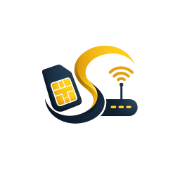
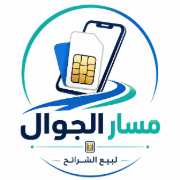
finish navbar

Changed region(s): [[0.1111, 0.0, 0.9167, 1.0], [0.2222, 0.8611, 0.25, 0.8889]]

diff --git a/app/layout.tsx b/app/layout.tsx
@@ -32,9 +32,9 @@ async function getCompany() {
 export async function generateMetadata(): Promise<Metadata> {
   const c = await getCompany();
 
-  const siteName = c.nameAr || "سهلناها التقنية (اتصالات)";
-  const titleDefault = `${siteName} | أفضل متجر شرائح اتصال وباقات إنترنت في السعودية`;
-  const description = c.details || "سهلناها التقنية (اتصالات) - تسوق أفضل شرائح الاتصال وباقات الإنترنت من فيرجن وSTC وزين وموبايلي بأسعار مميزة. توصيل سريع لجميع مناطق المملكة العربية السعودية.";
+  const siteName = c.nameAr || "سهلناها - مسار الجوال";
+  const titleDefault = `${siteName} | أفضل متجر لبيع شرائح الاتصال في السعودية`;
+  const description = c.details || "سهلناها مسار الجوال - تسوق أفضل شرائح الاتصال وباقات الإنترنت من فيرجن وSTC وزين وموبايلي بأسعار مميزة. توصيل سريع لجميع مناطق المملكة العربية السعودية.";
   const ogImage = `${SITE_URL}/og-image.jpg`;
 
   return {
@@ -45,7 +45,7 @@ export async function generateMetadata(): Promise<Metadata> {
     },
     description,
     keywords: [
-      "سهلناها التقنية", "سهلناها اتصالات", "Sahelnahatelecom",
+      "سهلناها", "سهلناها مسار الجوال", "Sahelnahatelecom", "مسار الجوال",
       "شرائح اتصال", "باقات إنترنت", "شريحة SIM", "شريحة بيانات",
       "فيرجن موبايل", "Virgin Mobile", "STC", "زين", "موبايلي",
       "إنترنت مفتوح", "باقة شهرية", "باقة سنوية", "5G", "4G",
@@ -85,8 +85,8 @@ export async function generateMetadata(): Promise<Metadata> {
       title: titleDefault,
       description,
       images: [ogImage],
-      creator: "@sahelnahatelecom",
-      site: "@sahelnahatelecom",
+      creator: "@masaraljawal",
+      site: "@masaraljawal",
     },
     icons: {
       icon: [

diff --git a/app/sitemap.ts b/app/sitemap.ts
@@ -6,17 +6,8 @@ const BACKEND_URL = process.env.NEXT_PUBLIC_API_URL || "http://localhost:5000";
 
 const staticRoutes = [
   { path: "", priority: 1, changeFrequency: "daily" as const },
-  { path: "/smartphones", priority: 0.9, changeFrequency: "daily" as const },
-  { path: "/apple-watches", priority: 0.8, changeFrequency: "weekly" as const },
-  { path: "/audio", priority: 0.8, changeFrequency: "weekly" as const },
-  { path: "/playstation", priority: 0.8, changeFrequency: "weekly" as const },
-  { path: "/laptops", priority: 0.8, changeFrequency: "weekly" as const },
-  { path: "/tablets", priority: 0.8, changeFrequency: "weekly" as const },
-  { path: "/accessories", priority: 0.7, changeFrequency: "weekly" as const },
-  { path: "/games", priority: 0.7, changeFrequency: "weekly" as const },
+  { path: "/sim-cards", priority: 0.9, changeFrequency: "daily" as const },
   { path: "/about", priority: 0.5, changeFrequency: "monthly" as const },
-  { path: "/privacy", priority: 0.3, changeFrequency: "monthly" as const },
-  { path: "/return-policy", priority: 0.3, changeFrequency: "monthly" as const },
 ];
 
 export default async function sitemap(): Promise<MetadataRoute.Sitemap> {

diff --git a/app/components/HomeCategorySections.tsx b/app/components/HomeCategorySections.tsx
@@ -5,7 +5,6 @@ import Link from "next/link";
 import { Tag } from "lucide-react";
 import type { Product } from "./products/types";
 import ProductCard from "./products/ProductCard";
-import { sortProducts } from "../lib/sortProducts";
 
 type BrandSetting = {
   brand: string;
@@ -50,7 +49,7 @@ export default function HomeCategorySections() {
               : Array.isArray(data.products)
               ? data.products
               : [];
-            return { brand: s.brand, products: sortProducts(products, true).slice(0, 4), bannerImages: s.bannerImages || [] };
+            return { brand: s.brand, products: products.slice(0, 4), bannerImages: s.bannerImages || [] };
           })
         );
 

diff --git a/app/components/TelecomPartnersSection.tsx b/app/components/TelecomPartnersSection.tsx
@@ -9,7 +9,7 @@ const logos = [
   { src: "/stc.webp", alt: "STC", brand: "STC" },
   { src: "/mobilay.webp", alt: "Mobily", brand: "موبايلي" },
   { src: "/zein.webp", alt: "Zain", brand: "زين" },
-  { src: "/vergin.webp", alt: "Virgin", brand: "Virgin Mobile " },
+  { src: "/vergin.webp", alt: "Virgin", brand: "Virgin Mobile" },
   { src: "/sslam.webp", alt: "Salam", brand: "سلام موبايل" },
 ];
 
